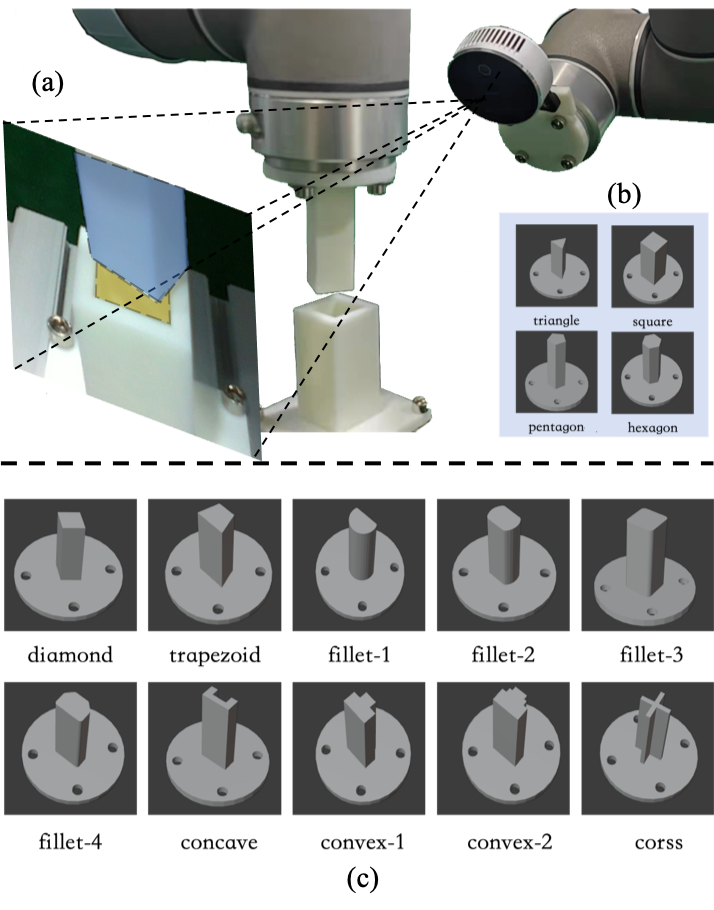
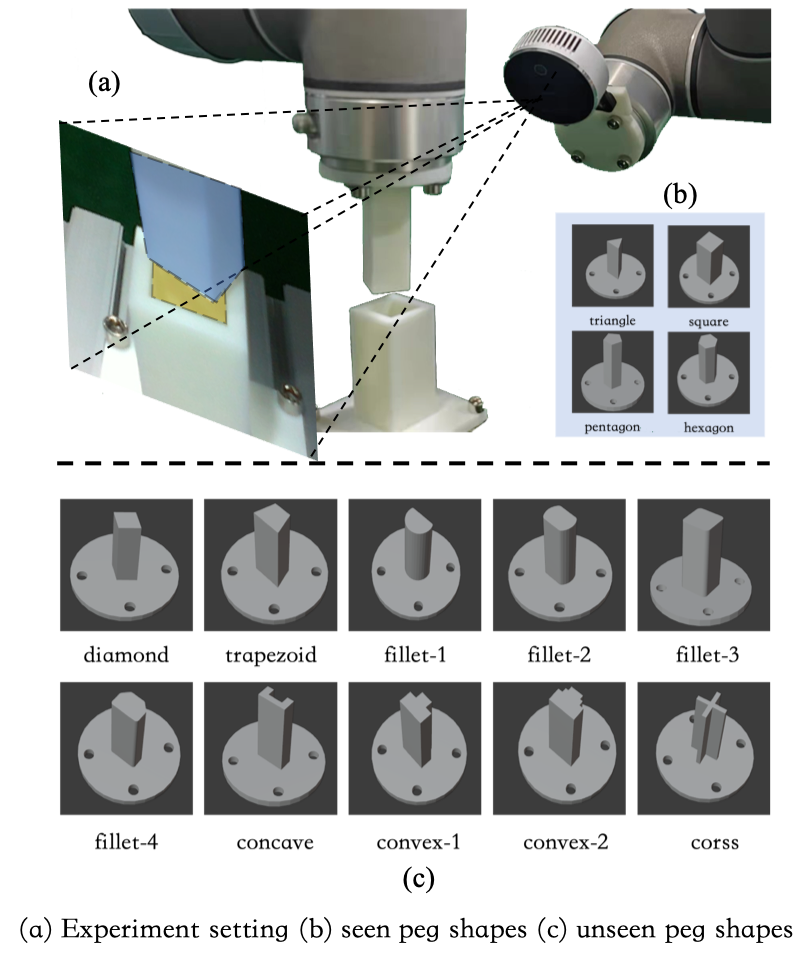
add img

diff --git a/README.md b/README.md
@@ -1,6 +1,8 @@
 # SFN
 
-![(a) experinment setting (b) seen peg shapes (c) unseen peg shapes](assets/cover.png)
+<!-- <center>![(a) experinment setting (b) seen peg shapes (c) unseen peg shapes](assets/cover.png)</center> -->
+
+<img src="assets/cover.png" width="30%" ></img>
 
 ## Downloads
 
